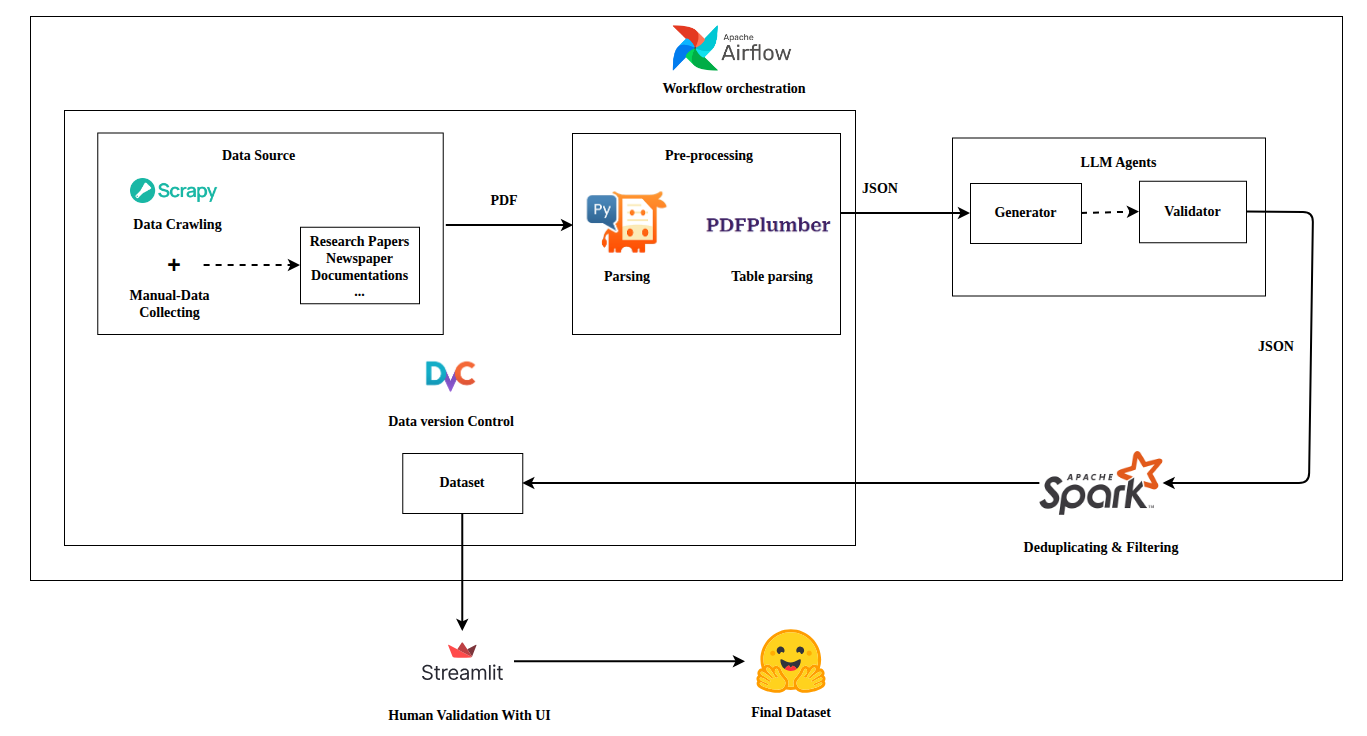
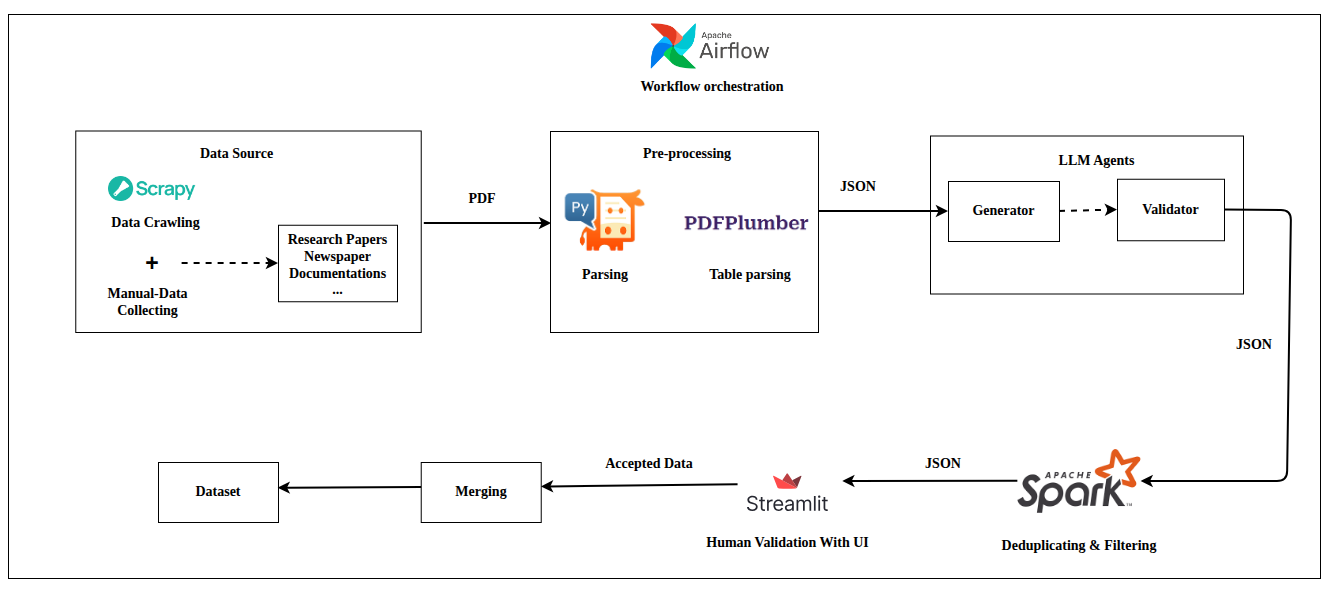
Update: pipeline_image; refractor: postprocessing

diff --git a/src/postprocess/pipeline.py b/src/postprocess/pipeline.py
@@ -6,7 +6,7 @@ sys.path.append(PROJECT_ROOT)
 
 import shutil
 import glob
-from src.postprocess.config import GENERATOR_JSON_DIR, POST_PROCESSED_DIR, TARGET_SUBDIRS
+from src.postprocess.config import GENERATOR_JSON_DIR, STAGING_PENDING_DIR, FINAL_FILE, TARGET_SUBDIRS
 from src.postprocess.spark_ops import (
     init_spark_session, read_and_merge_data, 
     filter_invalid_questions, internal_deduplication, 
@@ -36,30 +36,18 @@ def finalize_single_json(spark_output_dir, target_file_path):
     return False
 
 
-def global_deduplication(spark, df_local, global_output_dir):
-    if not os.path.exists(global_output_dir):
-        return df_local, df_local.count()
-        
-    has_global_data = False
-    for root, _, files in os.walk(global_output_dir):
-        if any(f.endswith('.json') for f in files):
-            has_global_data = True
-            break
-    
-    if not has_global_data:
+def global_deduplication(spark, df_local, master_file_path):
+    if not os.path.exists(master_file_path):
         return df_local, df_local.count()
 
     try:
-        df_existing_global = spark.read.option("recursiveFileLookup", "true") \
-                                       .option("pathGlobFilter", "*.json") \
-                                       .option("multiline", "true") \
-                                       .json(global_output_dir)
+        df_master = spark.read.option("multiline", "true").json(master_file_path)
         
-        df_existing_norm = add_normalization_columns(df_existing_global)
-        existing_keys = df_existing_norm.select("norm_question", "norm_answer").distinct()
+        df_master_norm = add_normalization_columns(df_master)
+        master_keys = df_master_norm.select("norm_question", "norm_answer").distinct()
         
         df_final = df_local.join(
-            existing_keys, 
+            master_keys, 
             on=["norm_question", "norm_answer"], 
             how="left_anti"
         )
@@ -91,7 +79,7 @@ def save_final_dataframe(df, output_file_path):
         print("  -> Error saving file.")
 
 
-def process_single_file(spark, input_file_path, output_file_path, global_output_dir):
+def process_single_file(spark, input_file_path, output_file_path, master_file_path):
     file_name = os.path.basename(input_file_path)
     print(f"\nProcessing: {file_name}")
     
@@ -108,11 +96,11 @@ def process_single_file(spark, input_file_path, output_file_path, global_output_
     df_internal_dedup, count_internal = internal_deduplication(df_filtered)
     print(f"  -> After Internal Dedup: {count_internal} (Dropped {count_filtered - count_internal})")
 
-    df_final, count_final = global_deduplication(spark, df_internal_dedup, global_output_dir)
+    df_final, count_final = global_deduplication(spark, df_internal_dedup, master_file_path)
     if count_internal > count_final:
-        print(f"  -> After Global Dedup: {count_final} (Dropped {count_internal - count_final} duplicates)")
+        print(f"  -> After Master Dedup: {count_final} (Dropped {count_internal - count_final} duplicates found in Master)")
     else:
-        print(f"  -> Global Dedup: No duplicates found.")
+        print(f"  -> Master Dedup: No duplicates found in Master.")
 
     if count_final > 0:
         save_final_dataframe(df_final, output_file_path)
@@ -123,11 +111,11 @@ def process_single_file(spark, input_file_path, output_file_path, global_output_
 def run_pipeline():
     spark = init_spark_session()
     print(f"Source: {GENERATOR_JSON_DIR}")
-    print(f"Target: {POST_PROCESSED_DIR}")
+    print(f"Target: {STAGING_PENDING_DIR}\n")
 
     for subdir in TARGET_SUBDIRS:
         source_type_dir = os.path.join(GENERATOR_JSON_DIR, subdir)
-        target_type_dir = os.path.join(POST_PROCESSED_DIR, subdir)
+        target_type_dir = os.path.join(STAGING_PENDING_DIR, subdir)
         
         if not os.path.exists(source_type_dir):
             continue
@@ -148,7 +136,7 @@ def run_pipeline():
                     print(f"  -> Skip (already exists): {output_path}")
                     continue
                 
-                process_single_file(spark, input_path, output_path, target_type_dir)
+                process_single_file(spark, input_path, output_path, FINAL_FILE)
 
     spark.stop()
 

diff --git a/src/postprocess/config.py b/src/postprocess/config.py
@@ -3,6 +3,8 @@ import os
 PROJECT_ROOT = os.path.abspath(os.path.join(os.path.dirname(__file__), "../../"))
 GENERATOR_JSON_DIR = os.path.join(PROJECT_ROOT, "data/generated/")
 POST_PROCESSED_DIR = os.path.join(PROJECT_ROOT, "data/postprocessed/")
+FINAL_FILE = os.path.join(PROJECT_ROOT, "data/final/dataset.json")
+STAGING_PENDING_DIR = os.path.join(POST_PROCESSED_DIR, "pending")
 
 TARGET_SUBDIRS = ["mcq", "qna"]
 SPARK_MEMORY = "4g"
